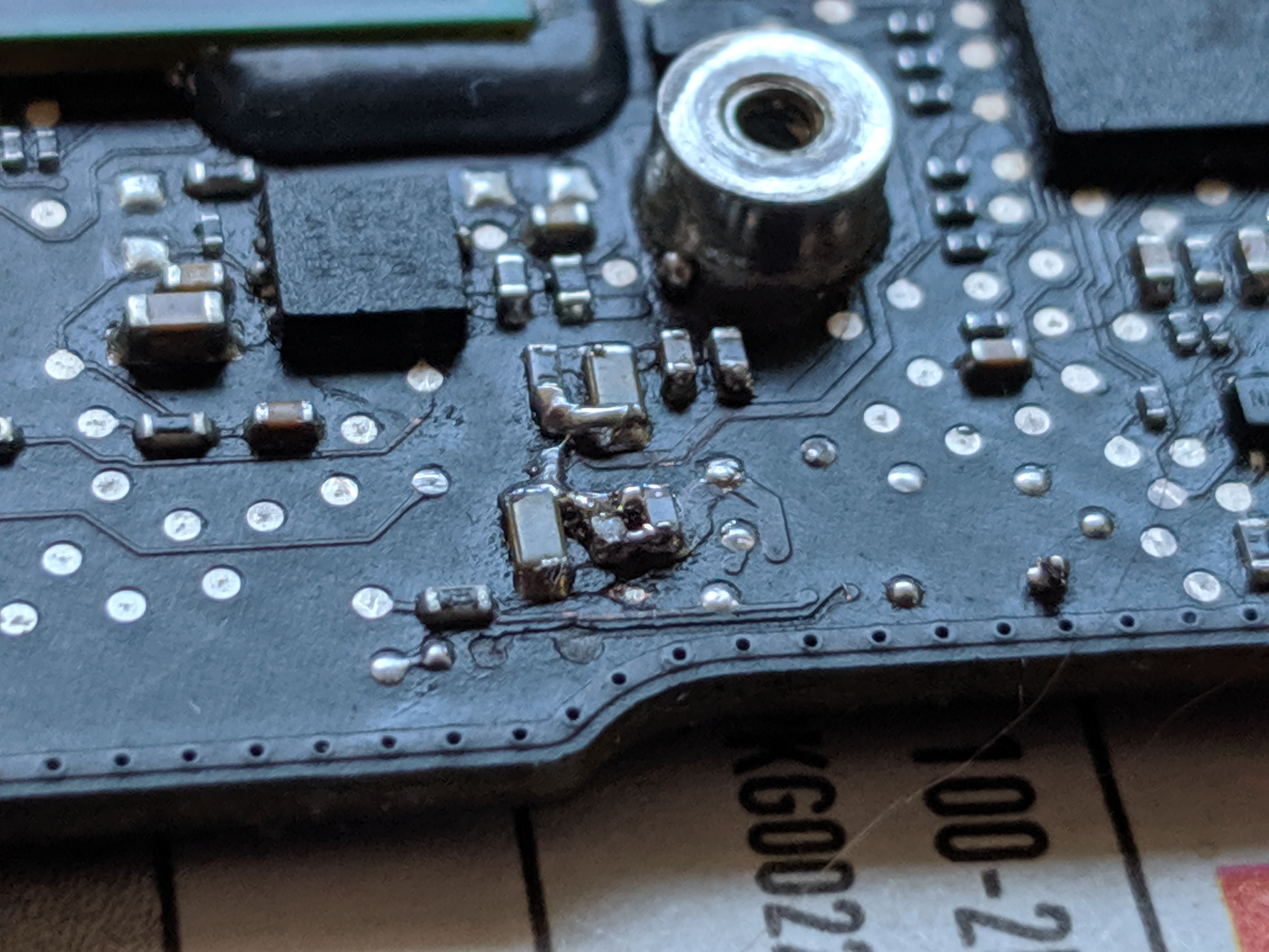
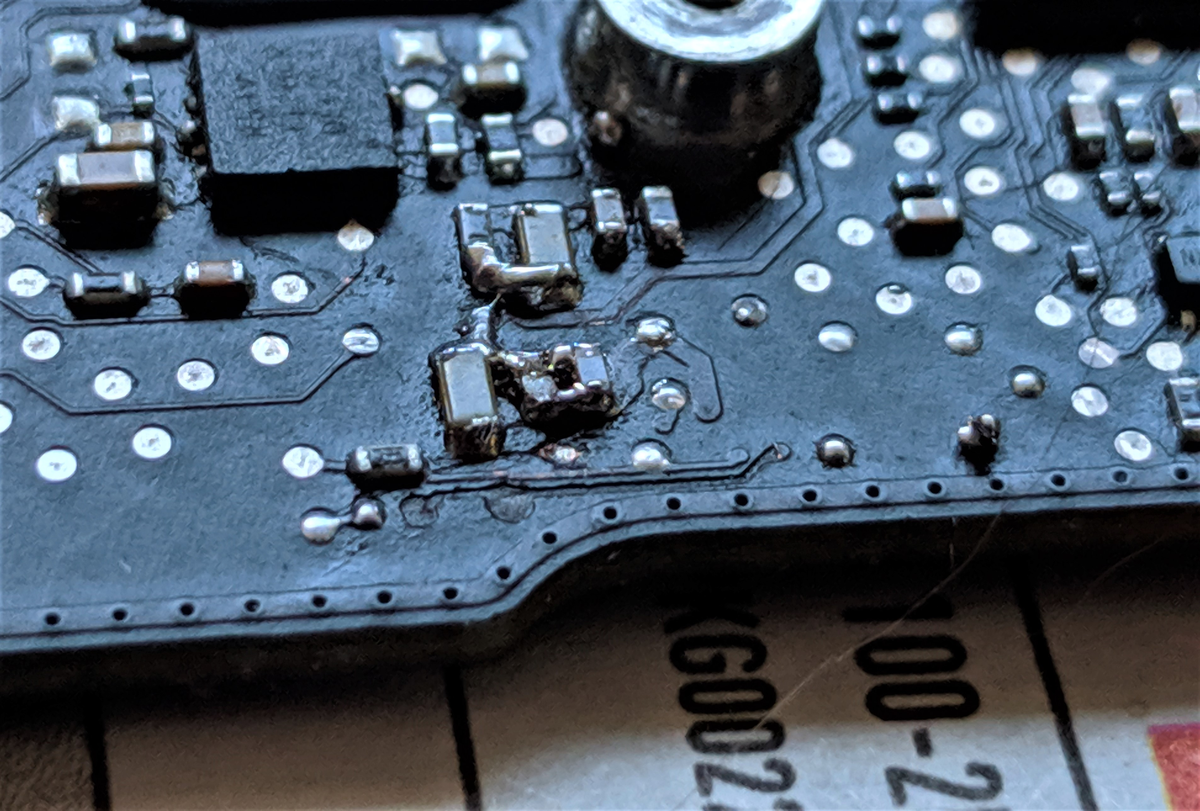
New post, images

diff --git a/_posts/2019-08-13-PSOC_fail.md b/_posts/2019-08-13-PSOC_fail.md
@@ -1,0 +1,44 @@
+---
+layout: post
+title:  "Foiled Again!"
+date:   2019-08-13
+comments: true
+categories: [apple_pi]
+tags: [Raspberry-Pi, MacBook, A1286] 
+---
+
+The  [PSoC MiniProg1](https://www.cypress.com/documentation/development-kitsboards/cy3217-miniprog1) came in the mail a while back, so I took a crack at communicating with the [CY8C24794-24LTXI](https://www.cypress.com/part/cy8c24794-24ltxi) controller on the old MacBook Pro logic board.
+
+Just a quick recap: My plan here was to interface with the CY8C24794 integrated circuit (IC) on the logic board, read its hex file, then write that hex file to my own CY8C24794 on my own controller board. Boom, instant keyboard and trackpad USB interface for the Raspberry Pi!
+
+Since the CY8C24794 is so tiny I had no hope of connecting directly to it through its pins so I attempted to interface through a series of debug points on the logic board. My plan of attack was to solder wires directly to these points, then connect the MiniProg1 to the wires. The MiniProg1 would provide power, a ground, and a USB interface for my computer to talk to the CY8C24794 through the Cypress development software.
+
+Unfortunately I'm really bad at soldering... and I also decided that my first attempt should be on the most hard to reach and important pin:
+
+![I suck](/assets\images\soldering.jpg)
+
+See those shiny round points? Those are direct connections to pins on various components on the board.
+
+See the dark spot under my abomination of a soldering job where a debug point *used* to be? Yeah. *I really needed that one.*
+
+After I destroyed the first and only data interface to the IC I decided to take a break, breath deep, then practice on a non mission critical point. After a bit of playing around I found a soldering method where I could successfully create a joint between the wire and a debug point:
+
+![I suck less now](/assets\images\wire_to_debug.jpg)
+
+After about another hour I had a decent joint to one of the pins and a connection to the ground that the IC also used. I used a multimeter to check the resistance between the ends of the wires and the actual pins on the IC and the result was close to zero. Yay, 50% of the connections were working!
+
+Unfortunately I destroyed another pin, so it was time to get creative. I soldered some wires to some safety pins which I then used to stab at the remaining pins directly on the CY8C24794. Here's the janky setup ready to rock:
+
+![staby staby](/assets\images\cypress_debugginh_2.jpg)
+
+It was super awkward, but after some practice I was able to execute the "connect" command in the development environment then quickly stab at the remaining two pins on the circuit in time to make a reliable connection! Victory! 
+
+Except that Apple has read protection on all of their chips **BECAUSE OF COURSE THEY DO! THIS PLAN WAS DUMB!**
+
+![God fucking damn it](/assets\images\write_protected.png)
+
+"FAILED! Device cannot be read. Some of the flash rows are protected from being read."
+
+Translation: Back to the drawing board.
+
+
